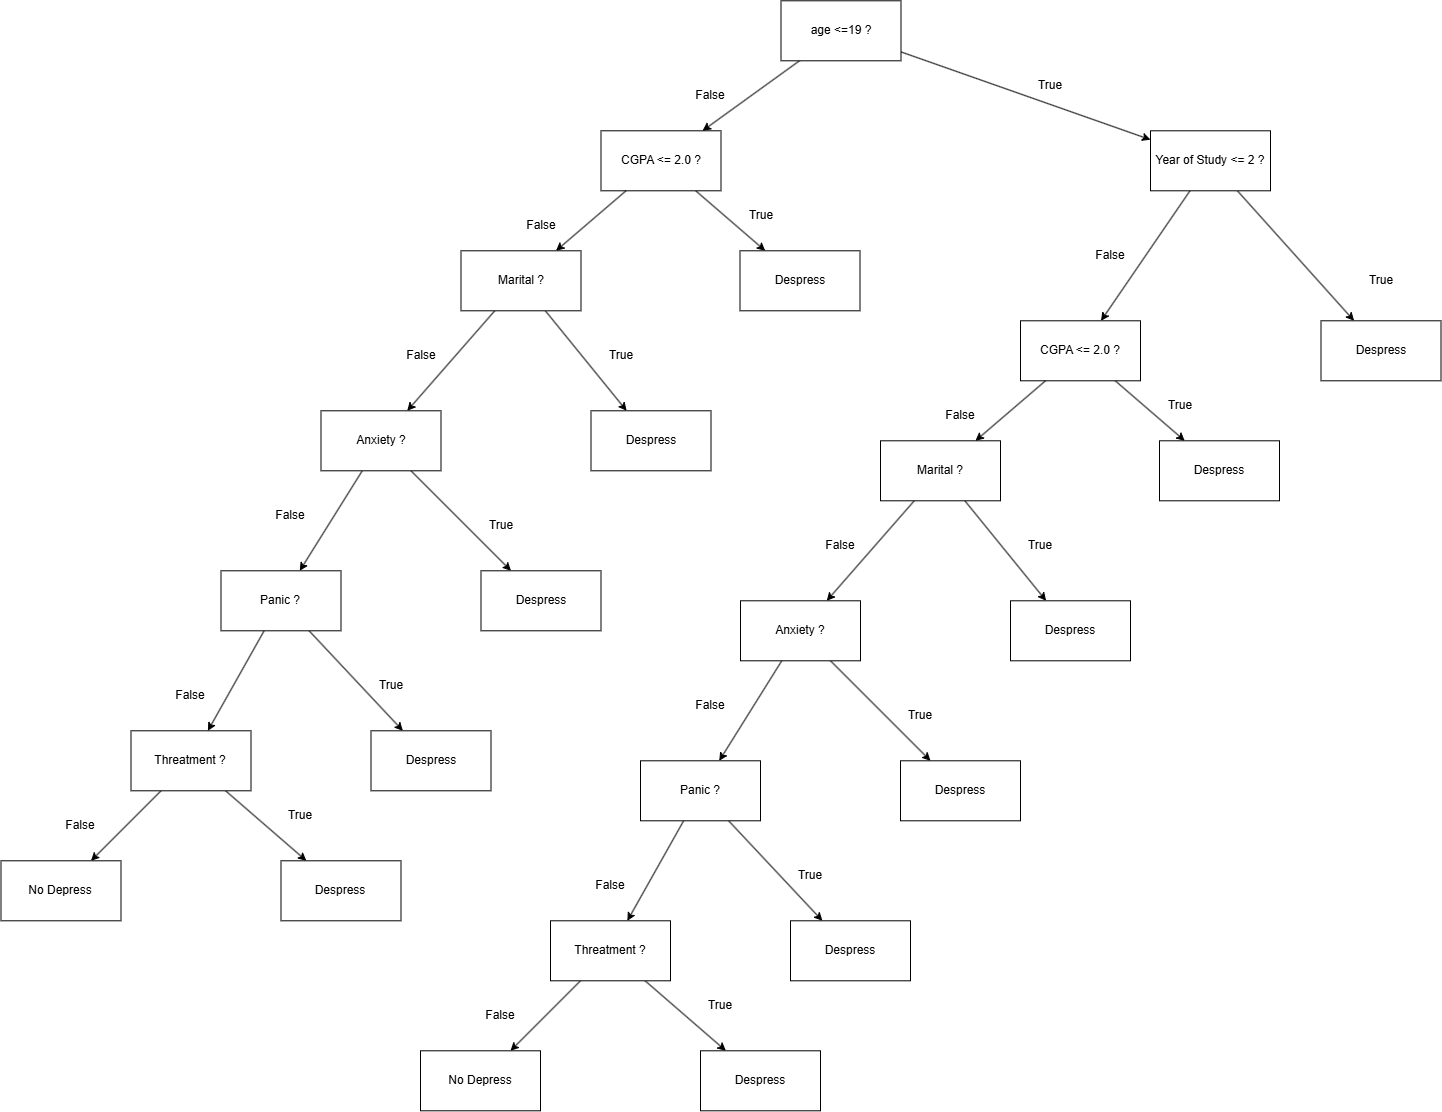
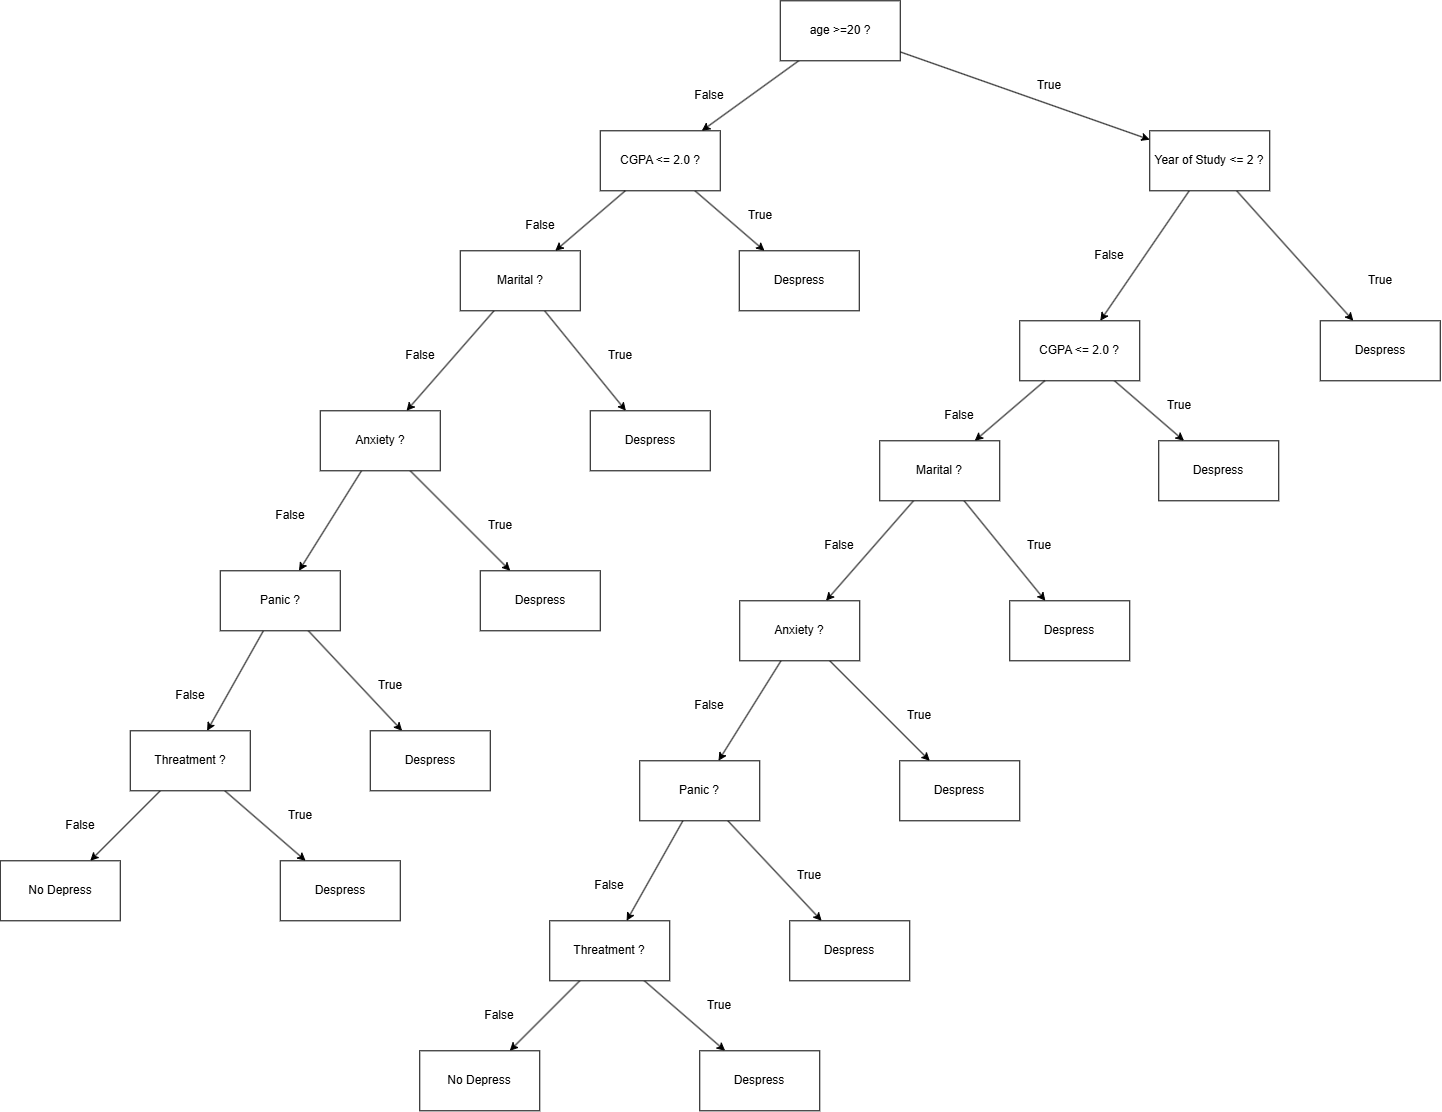
Add files via upload

diff --git a/asgmt/test.py b/asgmt/test.py
@@ -31,14 +31,14 @@ def is_yes(val):
 # --- Custom Decision Tree Logic ---
 def predict_custom_tree(inputs):
     """
-    Evaluates exact logic from the flowchart image:
+    Evaluates exact logic from the updated flowchart image:
     Right branch = True, Left branch = False
     """
     path_nodes = []
     
-    # Root: Age
-    path_nodes.append("age <= 19 ?")
-    if inputs['age'] <= 19:
+    # Root: Age >= 20 ?
+    path_nodes.append("age >= 20 ?")
+    if inputs['age'] >= 20:
         # Node: R_Year
         path_nodes.append("Year of Study <= 2 ? (R)")
         if inputs['year'] <= 2:
@@ -88,12 +88,12 @@ def traverse_health_subtree(inputs, path_nodes, prefix=""):
 def render_matplotlib_tree(active_path):
     G = nx.DiGraph()
 
-    # Pre-defined node labels and explicit coordinates (x, y) to mirror flowchart layout
+    # Coordinates matching layout
     pos = {
         # Root
-        "age <= 19 ?": (0, 7),
+        "age >= 20 ?": (0, 7),
         
-        # Left Branch (Age <= 19 False)
+        # Left Branch (Age >= 20 False)
         "CGPA <= 2.0 ? (L)": (-4, 6),
         "Depress (L_CGPA)": (-2, 5),
         "Marital ? (L)": (-6, 5),
@@ -106,7 +106,7 @@ def render_matplotlib_tree(active_path):
         "Depress (L_Treatment)": (-10, 1),
         "No Depress (L_Treatment)": (-14, 1),
 
-        # Right Branch (Age <= 19 True)
+        # Right Branch (Age >= 20 True)
         "Year of Study <= 2 ? (R)": (4, 6),
         "Depress (R_Year)": (8, 5),
         "CGPA <= 2.0 ? (R)": (2, 5),
@@ -122,9 +122,9 @@ def render_matplotlib_tree(active_path):
         "No Depress (R_Treatment)": (-8, 0)
     }
 
-    # Clean display labels without internally unique IDs
+    # Labels for visualization
     labels = {
-        "age <= 19 ?": "age <= 19 ?",
+        "age >= 20 ?": "age >= 20 ?",
         "CGPA <= 2.0 ? (L)": "CGPA <= 2.0 ?",
         "Depress (L_CGPA)": "Depress",
         "Marital ? (L)": "Marital ?",
@@ -133,7 +133,7 @@ def render_matplotlib_tree(active_path):
         "Depress (L_Anxiety)": "Depress",
         "Panic ? (L)": "Panic ?",
         "Depress (L_Panic)": "Depress",
-        "Treatment ? (L)": "Treatment ?",
+        "Treatment ? (L)": "Threatment ?",
         "Depress (L_Treatment)": "Depress",
         "No Depress (L_Treatment)": "No Depress",
 
@@ -147,15 +147,15 @@ def render_matplotlib_tree(active_path):
         "Depress (R_Anxiety)": "Depress",
         "Panic ? (R)": "Panic ?",
         "Depress (R_Panic)": "Depress",
-        "Treatment ? (R)": "Treatment ?",
+        "Treatment ? (R)": "Threatment ?",
         "Depress (R_Treatment)": "Depress",
         "No Depress (R_Treatment)": "No Depress"
     }
 
     edges = [
         # Root splits
-        ("age <= 19 ?", "CGPA <= 2.0 ? (L)", "False"),
-        ("age <= 19 ?", "Year of Study <= 2 ? (R)", "True"),
+        ("age >= 20 ?", "CGPA <= 2.0 ? (L)", "False"),
+        ("age >= 20 ?", "Year of Study <= 2 ? (R)", "True"),
 
         # Left Subtree splits
         ("CGPA <= 2.0 ? (L)", "Depress (L_CGPA)", "True"),
@@ -189,7 +189,7 @@ def render_matplotlib_tree(active_path):
 
     fig, ax = plt.subplots(figsize=(18, 10))
 
-    # Determine node outline colors based on user input traversal path
+    # Highlight active path
     node_border_colors = ['red' if node in active_path else 'black' for node in G.nodes()]
     node_widths = [3.0 if node in active_path else 1.0 for node in G.nodes()]
 
@@ -207,7 +207,7 @@ def render_matplotlib_tree(active_path):
     # Draw Labels
     nx.draw_networkx_labels(G, pos, labels=labels, font_size=8, font_family="sans-serif", ax=ax)
 
-    # Determine edge colors (highlight active path transitions in red)
+    # Highlight active path edges
     edge_colors = []
     edge_widths = []
     for u, v in G.edges():
